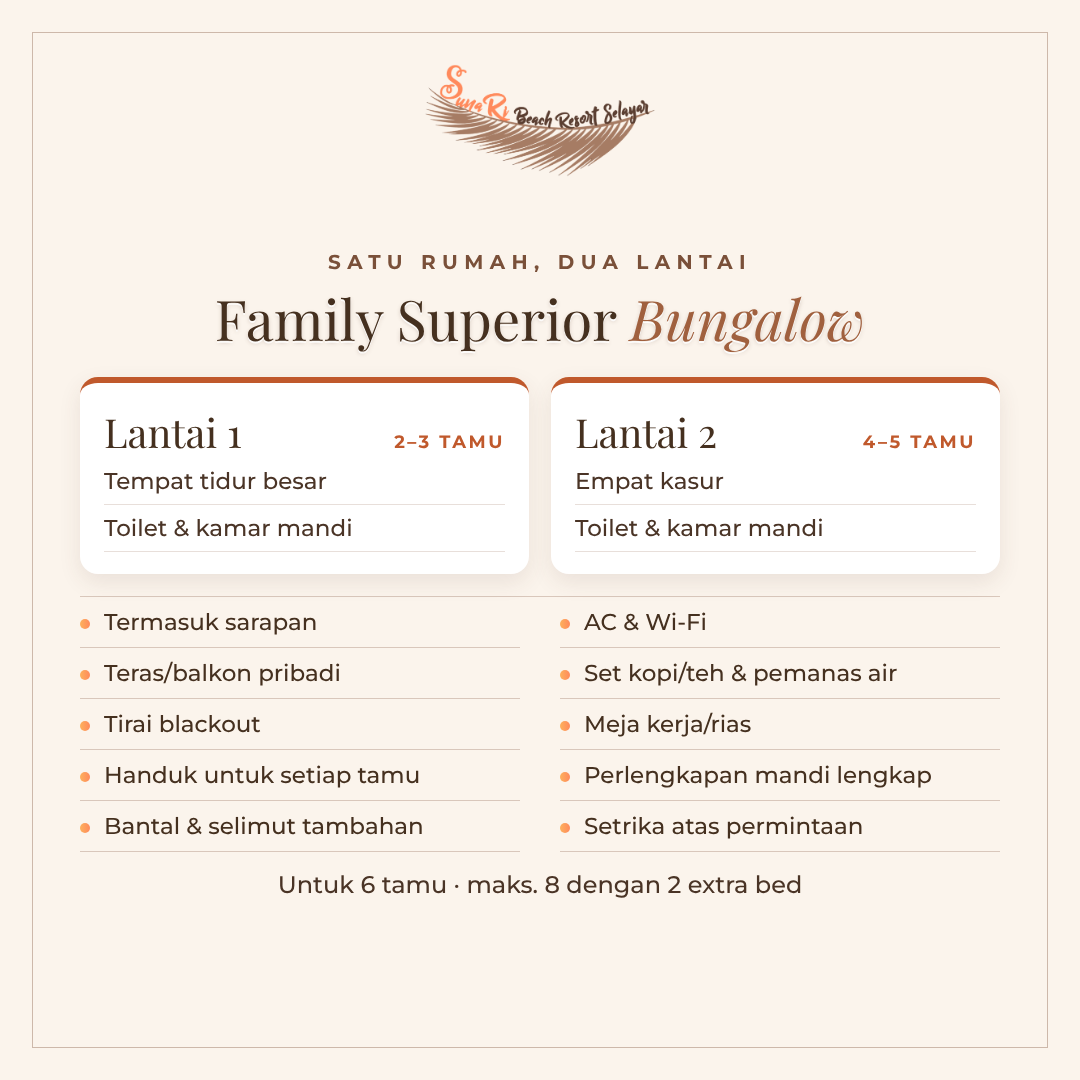
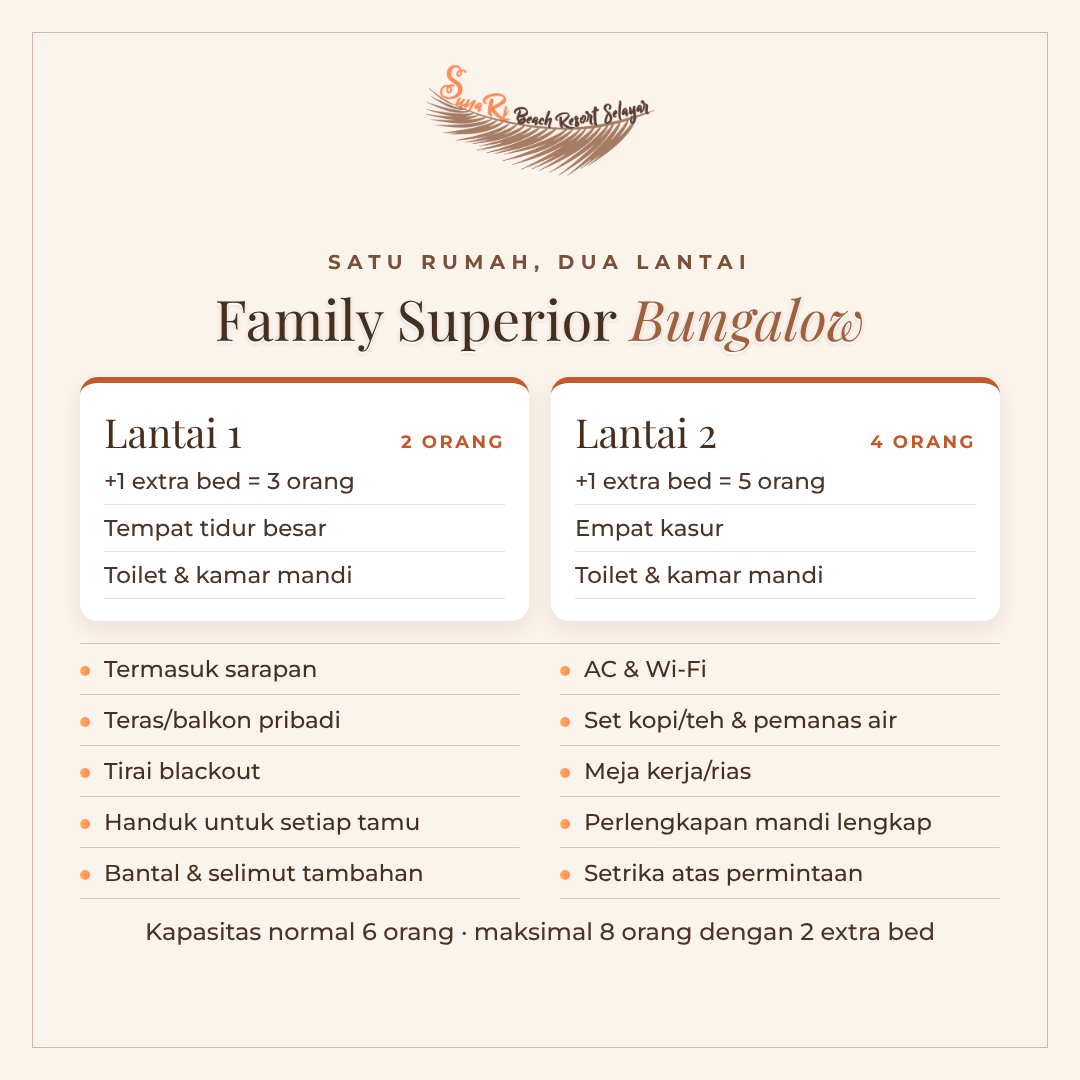
Family Superior catalog: confirmed capacity per floor (2+1, 4+1; normal 6, max 8)
Claude-Session: https://claude.ai/code/session_01AizaiBQtsTmWERPRfEgVV4

diff --git a/social/family_wa.html b/social/family_wa.html
@@ -14,15 +14,15 @@
   <div style="position:absolute;left:60px;right:60px;top:800px">
     <div style="font-weight:700;font-size:21px;letter-spacing:.32em;text-transform:uppercase;color:#7A5039">SunaRi Beach Resort · Selayar</div>
     <div class="emb" style="font-family:'Playfair Display',serif;font-size:76px;line-height:1.1;color:#45301F;margin-top:10px">Family Superior <em style="color:#A0603E">Bungalow</em></div>
-    <div style="font-size:28px;color:#4A3426;margin-top:12px">Satu rumah, dua lantai, semua bersama · 6–8 tamu</div></div></div><div class="t" id="wa-family-02"><img class="bg" src="../assets/photos/family-superior-bungalow/02-teras-samping.jpg" style="object-position:50% 55%" alt=""><img class="lg" src="../assets/logo-sunari-color-dark.png" alt=""><div class="lb">Teras pribadi</div></div><div class="t" id="wa-family-03"><img class="bg" src="../assets/photos/family-superior-bungalow/03-teras-sofa.jpg" style="object-position:40% 55%" alt=""><img class="lg" src="../assets/logo-sunari-color-dark.png" alt=""><div class="lb">Bersantai di teras</div></div><div class="t" id="wa-family-04"><img class="bg" src="../assets/photos/family-superior-bungalow/05-kamar-bawah-depan.jpg" style="object-position:50% 55%" alt=""><img class="lg" src="../assets/logo-sunari-color-dark.png" alt=""><div class="lb">Lantai 1 · tempat tidur besar</div></div><div class="t" id="wa-family-05"><img class="bg" src="../assets/photos/family-superior-bungalow/06-kamar-bawah-sudut.jpg" style="object-position:50% 55%" alt=""><img class="lg" src="../assets/logo-sunari-color-dark.png" alt=""><div class="lb">Lantai 1 · untuk 2–3 tamu</div></div><div class="t" id="wa-family-06"><img class="bg" src="../assets/photos/family-superior-bungalow/09-lantai-atas-4-kasur.jpg" style="object-position:50% 55%" alt=""><img class="lg" src="../assets/logo-sunari-color-dark.png" alt=""><div class="lb">Lantai 2 · empat kasur</div></div><div class="t" id="wa-family-07"><img class="bg" src="../assets/photos/family-superior-bungalow/10-lantai-atas-kasur-kettle.jpg" style="object-position:45% 55%" alt=""><img class="lg" src="../assets/logo-sunari-color-dark.png" alt=""><div class="lb">Lantai 2 · set kopi/teh</div></div><div class="t" id="wa-family-08"><img class="bg" src="../assets/photos/family-superior-bungalow/12-kamar-mandi-shower.jpg" style="object-position:50% 55%" alt=""><img class="lg" src="../assets/logo-sunari-color-dark.png" alt=""><div class="lb">Kamar mandi di kedua lantai</div></div><div class="t" id="wa-family-09"><img class="bg" src="../assets/photos/family-superior-bungalow/11-wastafel.jpg" style="object-position:45% 55%" alt=""><img class="lg" src="../assets/logo-sunari-color-dark.png" alt=""><div class="lb">Wastafel &amp; cermin</div></div><div class="t" id="wa-family-10"><div style="position:absolute;inset:32px;border:1.5px solid rgba(138,95,72,.4)"></div>
+    <div style="font-size:28px;color:#4A3426;margin-top:12px">Satu rumah, dua lantai, semua bersama · 6 orang (maks. 8)</div></div></div><div class="t" id="wa-family-02"><img class="bg" src="../assets/photos/family-superior-bungalow/02-teras-samping.jpg" style="object-position:50% 55%" alt=""><img class="lg" src="../assets/logo-sunari-color-dark.png" alt=""><div class="lb">Teras pribadi</div></div><div class="t" id="wa-family-03"><img class="bg" src="../assets/photos/family-superior-bungalow/03-teras-sofa.jpg" style="object-position:40% 55%" alt=""><img class="lg" src="../assets/logo-sunari-color-dark.png" alt=""><div class="lb">Bersantai di teras</div></div><div class="t" id="wa-family-04"><img class="bg" src="../assets/photos/family-superior-bungalow/05-kamar-bawah-depan.jpg" style="object-position:50% 55%" alt=""><img class="lg" src="../assets/logo-sunari-color-dark.png" alt=""><div class="lb">Lantai 1 · tempat tidur besar</div></div><div class="t" id="wa-family-05"><img class="bg" src="../assets/photos/family-superior-bungalow/06-kamar-bawah-sudut.jpg" style="object-position:50% 55%" alt=""><img class="lg" src="../assets/logo-sunari-color-dark.png" alt=""><div class="lb">Lantai 1 · untuk 2–3 tamu</div></div><div class="t" id="wa-family-06"><img class="bg" src="../assets/photos/family-superior-bungalow/09-lantai-atas-4-kasur.jpg" style="object-position:50% 55%" alt=""><img class="lg" src="../assets/logo-sunari-color-dark.png" alt=""><div class="lb">Lantai 2 · empat kasur</div></div><div class="t" id="wa-family-07"><img class="bg" src="../assets/photos/family-superior-bungalow/10-lantai-atas-kasur-kettle.jpg" style="object-position:45% 55%" alt=""><img class="lg" src="../assets/logo-sunari-color-dark.png" alt=""><div class="lb">Lantai 2 · set kopi/teh</div></div><div class="t" id="wa-family-08"><img class="bg" src="../assets/photos/family-superior-bungalow/12-kamar-mandi-shower.jpg" style="object-position:50% 55%" alt=""><img class="lg" src="../assets/logo-sunari-color-dark.png" alt=""><div class="lb">Kamar mandi di kedua lantai</div></div><div class="t" id="wa-family-09"><img class="bg" src="../assets/photos/family-superior-bungalow/11-wastafel.jpg" style="object-position:45% 55%" alt=""><img class="lg" src="../assets/logo-sunari-color-dark.png" alt=""><div class="lb">Wastafel &amp; cermin</div></div><div class="t" id="wa-family-10"><div style="position:absolute;inset:32px;border:1.5px solid rgba(138,95,72,.4)"></div>
   <img src="../assets/logo-sunari-color.png" style="position:absolute;left:50%;transform:translateX(-50%);top:60px;width:240px" alt="">
   <div style="position:absolute;left:80px;right:80px;top:250px;text-align:center">
     <div style="font-weight:700;font-size:20px;letter-spacing:.32em;text-transform:uppercase;color:#7A5039">Satu rumah, dua lantai</div>
     <div class="emb" style="font-family:'Playfair Display',serif;font-size:56px;color:#45301F;margin:6px 0 22px">Family Superior <em style="color:#A0603E">Bungalow</em></div>
     <div style="display:flex;gap:22px"><div style="flex:1;background:#fff;border-radius:18px;padding:22px 24px;box-shadow:0 8px 22px rgba(90,62,49,.1);text-align:left;border-top:6px solid #C0592C">
-  <div style="display:flex;justify-content:space-between;align-items:baseline"><span style="font-family:'Playfair Display',serif;font-size:40px;color:#45301F">Lantai 1</span><span style="font-weight:700;font-size:18px;letter-spacing:.14em;text-transform:uppercase;color:#C0592C">2–3 tamu</span></div>
-  <div style="font-size:23px;color:#4A3426;padding:9px 0;border-bottom:1.5px solid rgba(138,95,72,.2)">Tempat tidur besar</div><div style="font-size:23px;color:#4A3426;padding:9px 0;border-bottom:1.5px solid rgba(138,95,72,.2)">Toilet &amp; kamar mandi</div></div><div style="flex:1;background:#fff;border-radius:18px;padding:22px 24px;box-shadow:0 8px 22px rgba(90,62,49,.1);text-align:left;border-top:6px solid #C0592C">
-  <div style="display:flex;justify-content:space-between;align-items:baseline"><span style="font-family:'Playfair Display',serif;font-size:40px;color:#45301F">Lantai 2</span><span style="font-weight:700;font-size:18px;letter-spacing:.14em;text-transform:uppercase;color:#C0592C">4–5 tamu</span></div>
-  <div style="font-size:23px;color:#4A3426;padding:9px 0;border-bottom:1.5px solid rgba(138,95,72,.2)">Empat kasur</div><div style="font-size:23px;color:#4A3426;padding:9px 0;border-bottom:1.5px solid rgba(138,95,72,.2)">Toilet &amp; kamar mandi</div></div></div>
+  <div style="display:flex;justify-content:space-between;align-items:baseline"><span style="font-family:'Playfair Display',serif;font-size:40px;color:#45301F">Lantai 1</span><span style="font-weight:700;font-size:18px;letter-spacing:.14em;text-transform:uppercase;color:#C0592C">2 orang</span></div>
+  <div style="font-size:23px;color:#4A3426;padding:9px 0;border-bottom:1.5px solid rgba(138,95,72,.2)">+1 extra bed = 3 orang</div><div style="font-size:23px;color:#4A3426;padding:9px 0;border-bottom:1.5px solid rgba(138,95,72,.2)">Tempat tidur besar</div><div style="font-size:23px;color:#4A3426;padding:9px 0;border-bottom:1.5px solid rgba(138,95,72,.2)">Toilet &amp; kamar mandi</div></div><div style="flex:1;background:#fff;border-radius:18px;padding:22px 24px;box-shadow:0 8px 22px rgba(90,62,49,.1);text-align:left;border-top:6px solid #C0592C">
+  <div style="display:flex;justify-content:space-between;align-items:baseline"><span style="font-family:'Playfair Display',serif;font-size:40px;color:#45301F">Lantai 2</span><span style="font-weight:700;font-size:18px;letter-spacing:.14em;text-transform:uppercase;color:#C0592C">4 orang</span></div>
+  <div style="font-size:23px;color:#4A3426;padding:9px 0;border-bottom:1.5px solid rgba(138,95,72,.2)">+1 extra bed = 5 orang</div><div style="font-size:23px;color:#4A3426;padding:9px 0;border-bottom:1.5px solid rgba(138,95,72,.2)">Empat kasur</div><div style="font-size:23px;color:#4A3426;padding:9px 0;border-bottom:1.5px solid rgba(138,95,72,.2)">Toilet &amp; kamar mandi</div></div></div>
     <div class="fx" style="text-align:left;margin-top:22px"><div>Termasuk sarapan</div><div>AC &amp; Wi-Fi</div><div>Teras/balkon pribadi</div><div>Set kopi/teh &amp; pemanas air</div><div>Tirai blackout</div><div>Meja kerja/rias</div><div>Handuk untuk setiap tamu</div><div>Perlengkapan mandi lengkap</div><div>Bantal &amp; selimut tambahan</div><div>Setrika atas permintaan</div></div>
-    <div style="margin-top:18px;font-size:24px;color:#4A3426">Untuk 6 tamu · maks. 8 dengan 2 extra bed</div></div></div></body></html>
+    <div style="margin-top:18px;font-size:24px;color:#4A3426">Kapasitas normal 6 orang · maksimal 8 orang dengan 2 extra bed</div></div></div></body></html>

diff --git a/social/build_family_wa.py b/social/build_family_wa.py
@@ -23,15 +23,15 @@ T.append(f'''<div class="t" id="wa-family-01">
   <div style="position:absolute;left:60px;right:60px;top:800px">
     <div style="font-weight:700;font-size:21px;letter-spacing:.32em;text-transform:uppercase;color:#7A5039">SunaRi Beach Resort · Selayar</div>
     <div class="emb" style="font-family:'Playfair Display',serif;font-size:76px;line-height:1.1;color:#45301F;margin-top:10px">Family Superior <em style="color:#A0603E">Bungalow</em></div>
-    <div style="font-size:28px;color:#4A3426;margin-top:12px">Satu rumah, dua lantai, semua bersama · 6–8 tamu</div></div></div>''')
+    <div style="font-size:28px;color:#4A3426;margin-top:12px">Satu rumah, dua lantai, semua bersama · 6 orang (maks. 8)</div></div></div>''')
 PH = [("02-teras-samping.jpg", "50% 55%", "Teras pribadi"), ("03-teras-sofa.jpg", "40% 55%", "Bersantai di teras"),
       ("05-kamar-bawah-depan.jpg", "50% 55%", "Lantai 1 · tempat tidur besar"), ("06-kamar-bawah-sudut.jpg", "50% 55%", "Lantai 1 · untuk 2–3 tamu"),
       ("09-lantai-atas-4-kasur.jpg", "50% 55%", "Lantai 2 · empat kasur"), ("10-lantai-atas-kasur-kettle.jpg", "45% 55%", "Lantai 2 · set kopi/teh"),
       ("12-kamar-mandi-shower.jpg", "50% 55%", "Kamar mandi di kedua lantai"), ("11-wastafel.jpg", "45% 55%", "Wastafel &amp; cermin")]
 for k, (img, pos, lb) in enumerate(PH, 2):
     T.append(f'''<div class="t" id="wa-family-{k:02d}"><img class="bg" src="{P}{img}" style="object-position:{pos}" alt=""><img class="lg" src="{LOGO_D}" alt=""><div class="lb">{lb}</div></div>''')
-FL = [("Lantai 1", "2–3 tamu", ["Tempat tidur besar", "Toilet &amp; kamar mandi"]),
-      ("Lantai 2", "4–5 tamu", ["Empat kasur", "Toilet &amp; kamar mandi"])]
+FL = [("Lantai 1", "2 orang", ["+1 extra bed = 3 orang", "Tempat tidur besar", "Toilet &amp; kamar mandi"]),
+      ("Lantai 2", "4 orang", ["+1 extra bed = 5 orang", "Empat kasur", "Toilet &amp; kamar mandi"])]
 FX = ["Termasuk sarapan", "AC &amp; Wi-Fi", "Teras/balkon pribadi", "Set kopi/teh &amp; pemanas air", "Tirai blackout", "Meja kerja/rias", "Handuk untuk setiap tamu", "Perlengkapan mandi lengkap", "Bantal &amp; selimut tambahan", "Setrika atas permintaan"]
 fl = "".join(f'''<div style="flex:1;background:#fff;border-radius:18px;padding:22px 24px;box-shadow:0 8px 22px rgba(90,62,49,.1);text-align:left;border-top:6px solid #C0592C">
   <div style="display:flex;justify-content:space-between;align-items:baseline"><span style="font-family:'Playfair Display',serif;font-size:40px;color:#45301F">{n}</span><span style="font-weight:700;font-size:18px;letter-spacing:.14em;text-transform:uppercase;color:#C0592C">{c}</span></div>
@@ -43,6 +43,6 @@ T.append(f'''<div class="t" id="wa-family-10"><div style="position:absolute;inse
     <div class="emb" style="font-family:'Playfair Display',serif;font-size:56px;color:#45301F;margin:6px 0 22px">Family Superior <em style="color:#A0603E">Bungalow</em></div>
     <div style="display:flex;gap:22px">{fl}</div>
     <div class="fx" style="text-align:left;margin-top:22px">{"".join(f"<div>{x}</div>" for x in FX)}</div>
-    <div style="margin-top:18px;font-size:24px;color:#4A3426">Untuk 6 tamu · maks. 8 dengan 2 extra bed</div></div></div>''')
+    <div style="margin-top:18px;font-size:24px;color:#4A3426">Kapasitas normal 6 orang · maksimal 8 orang dengan 2 extra bed</div></div></div>''')
 (H / "family_wa.html").write_text(f'<!doctype html><html lang="id"><head><meta charset="utf-8">{FONTS}<style>{CSS}</style></head><body>{"".join(T)}</body></html>')
 print(len(T))

diff --git a/social/family-wa/KATALOG_WHATSAPP.md b/social/family-wa/KATALOG_WHATSAPP.md
@@ -8,7 +8,7 @@ Gambar 1080 × 1080 (persegi 1:1) · 10 gambar (batas maksimal WhatsApp per item
 
 | No | File | Isi |
 |---|---|---|
-| 1 | `wa-family-01.png` | **Sampul**: rumah kayu di tengah taman (foto utama/thumbnail) |
+| 1 | `wa-family-01.png` | **Sampul**: rumah kayu di tengah taman · 6 orang (maks. 8) (foto utama/thumbnail) |
 | 2 | `wa-family-02.png` | Teras pribadi |
 | 3 | `wa-family-03.png` | Bersantai di teras |
 | 4 | `wa-family-04.png` | Lantai 1 · tempat tidur besar |
@@ -17,7 +17,7 @@ Gambar 1080 × 1080 (persegi 1:1) · 10 gambar (batas maksimal WhatsApp per item
 | 7 | `wa-family-07.png` | Lantai 2 · set kopi/teh |
 | 8 | `wa-family-08.png` | Kamar mandi di kedua lantai |
 | 9 | `wa-family-09.png` | Wastafel & cermin |
-| 10 | `wa-family-10.png` | Denah lantai & fasilitas lengkap |
+| 10 | `wa-family-10.png` | Kapasitas per lantai (normal & dengan extra bed) + fasilitas lengkap |
 
 ---
 
@@ -38,15 +38,16 @@ Mata uang: **IDR**. Harga per malam untuk satu bungalow, termasuk sarapan.
 ```
 Satu rumah, dua lantai, semua bersama. 🌿
 
-Family Superior adalah bungalow terbesar di SunaRi: rumah kayu dua lantai di tengah taman tropis, tempat keluarga atau rombongan bisa berkumpul tanpa harus terpisah kamar. Pagi dimulai di teras, siang di pantai, dan sore kalian menikmati senja bersama di Pantai Sunari.
+Family Superior adalah bungalow terbesar di SunaRi: rumah kayu dua lantai di tengah taman tropis, tempat keluarga atau rombongan berkumpul tanpa harus terpisah kamar. Masing-masing lantai punya toilet dan kamar mandi sendiri, jadi pagi hari kalian bisa bersiap dengan nyaman. Siang di pantai, sore menikmati senja bersama di Pantai Sunari.
 
 Harga per bungalow per malam, termasuk sarapan.
 
 KAPASITAS
-• 6 tamu, maks. 8 dengan 2 extra bed (berbayar)
-• Lantai 1: untuk 2–3 tamu, tempat tidur besar
-• Lantai 2: untuk 4–5 tamu, empat kasur
-• Toilet & kamar mandi di kedua lantai, jadi tidak perlu antre
+• Kapasitas normal: 6 orang
+• Kapasitas maksimal: 8 orang, dengan tambahan 2 extra bed (berbayar)
+• Lantai 1: 2 orang · dengan 1 extra bed menjadi 3 orang (tempat tidur besar)
+• Lantai 2: 4 orang · dengan 1 extra bed menjadi 5 orang (empat kasur)
+• Toilet & kamar mandi ada di lantai 1 dan lantai 2, jadi tidak perlu antre
 
 FASILITAS
 • AC & Wi-Fi
@@ -99,7 +100,7 @@ SUNARI-FAMILY
 ```
 Halo Kak, terima kasih sudah menghubungi SunaRi 🌅
 
-Untuk liburan keluarga atau rombongan, Family Superior Bungalow paling pas: satu rumah kayu dua lantai untuk 6 tamu (maks. 8 dengan extra bed), toilet & kamar mandi di kedua lantai, dan sudah termasuk sarapan.
+Untuk liburan keluarga atau rombongan, Family Superior Bungalow paling pas: satu rumah dua lantai untuk 6 orang (maksimal 8 orang dengan 2 extra bed), dengan toilet dan kamar mandi di kedua lantai, dan sudah termasuk sarapan.
 
 Boleh kami tahu tanggal check-in, check-out, dan jumlah tamunya? Kami bantu cek ketersediaannya ya, Kak.
 ```

diff --git a/brand/BRAND_GUIDE.md b/brand/BRAND_GUIDE.md
@@ -214,7 +214,7 @@ Acuan gaya: `brand/style-reference.jpg` (hanya gaya visual, bukan isi/merek). Pe
   dan **air panas & dingin** (*satu-satunya tipe dengan air panas*: jangan sebut air panas untuk tipe lain). Tulis "bathtub", bukan "jacuzzi".
   Teras kayu pribadi dengan kursi santai, pemandangan laut atau taman. Kata kunci promosi: *berendam di bawah langit terbuka*.
 - **Family Superior Bungalow** *(foto asli: `assets/photos/family-superior-bungalow/`)*: **tipe bungalow terbesar**, kayu dua lantai di tengah taman.
-  **Kapasitas 6 orang, maksimal 8 dengan 2 extra bed (berbayar).** Lantai 1 untuk 2–3 orang (tempat tidur besar), lantai 2 untuk 4–5 orang (empat kasur).
+  **Kapasitas normal 6 orang, maksimal 8 dengan 2 extra bed (berbayar).** Lantai 1: 2 orang, +1 extra bed = 3 (tempat tidur besar). Lantai 2: 4 orang, +1 extra bed = 5 (empat kasur).
   **Toilet & kamar mandi di kedua lantai.** Termasuk **sarapan**. AC, Wi-Fi di kamar, set kopi/teh dengan pemanas air, meja kerja/rias,
   setrika atas permintaan, perlengkapan mandi lengkap, handuk untuk setiap tamu, bantal & selimut tambahan, tirai blackout.
   Teras/balkon pribadi dengan kursi santai, pemandangan laut atau taman. Kata kunci promosi: *satu rumah, dua lantai, semua bersama*.
